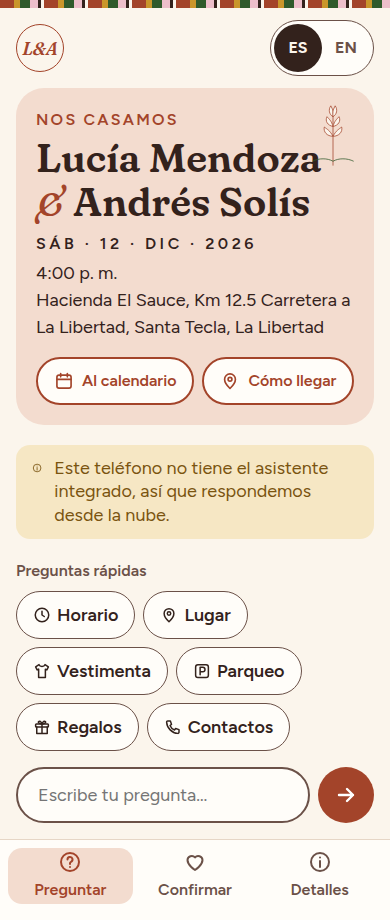
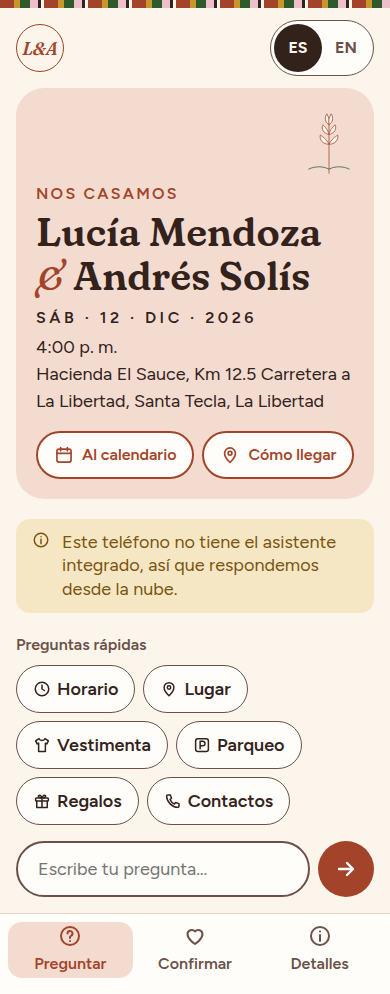
fix: give the calendar event a real end and clear the phone hero
The calendar template used one timestamp for start and end. It now ends five hours later unless the sheet sets an end or a duration, sends America/El_Salvador, and uses Spanish details on the Spanish page. The sprig sits above the names through 430px, and the cloud notice icon matches the banner text.

Changed region(s): [[0.0308, 0.0, 0.9846, 1.0]]

diff --git a/src/features/qa/sheetView.ts b/src/features/qa/sheetView.ts
@@ -44,17 +44,107 @@ export function venueLine(info: WeddingInfo): string {
     .join(', ');
 }
 
-export function calendarUrl(info: WeddingInfo): string {
+/** Length used when the wedding sheet does not set an end time or a duration. */
+export const DEFAULT_CALENDAR_DURATION_HOURS = 5;
+
+const CALENDAR_TIME_ZONE = 'America/El_Salvador';
+
+const ENGLISH_VENUE_DETAILS =
+  'The property is a 25-minute drive from central Santa Tecla. A covered backup hall is available if it rains.';
+
+const SPANISH_VENUE_DETAILS =
+  'La propiedad queda a 25 minutos en carro del centro de Santa Tecla. Hay un salón cubierto de respaldo si llueve.';
+
+type Clock = { hours: number; minutes: number };
+
+function pad2(value: number): string {
+  return String(value).padStart(2, '0');
+}
+
+function calendarStamp(isoDate: string, clock: Clock): string {
+  return `${isoDate.replaceAll('-', '')}T${pad2(clock.hours)}${pad2(clock.minutes)}00`;
+}
+
+function parseClock(value: string): Clock | null {
+  const match = /^(\d{1,2}):(\d{2})$/.exec(value.trim());
+  if (!match) return null;
+  const hours = Number(match[1]);
+  const minutes = Number(match[2]);
+  if (hours > 23 || minutes > 59) return null;
+  return { hours, minutes };
+}
+
+function addMinutes(isoDate: string, clock: Clock, minutesToAdd: number): { date: string; clock: Clock } {
+  const [year, month, day] = isoDate.split('-').map(Number);
+  const utc = new Date(Date.UTC(year, (month ?? 1) - 1, day ?? 1, clock.hours, clock.minutes));
+  utc.setUTCMinutes(utc.getUTCMinutes() + minutesToAdd);
+  return {
+    date: `${utc.getUTCFullYear()}-${pad2(utc.getUTCMonth() + 1)}-${pad2(utc.getUTCDate())}`,
+    clock: { hours: utc.getUTCHours(), minutes: utc.getUTCMinutes() },
+  };
+}
+
+function minutesFromDuration(value: unknown): number | null {
+  if (typeof value === 'number' && Number.isFinite(value) && value > 0) {
+    return Math.round(value * 60);
+  }
+  if (typeof value !== 'string') return null;
+  const trimmed = value.trim();
+  const hours = /^(\d+(?:\.\d+)?)\s*h(?:ours?)?$/i.exec(trimmed);
+  if (hours) return Math.round(Number(hours[1]) * 60);
+  const asNumber = Number(trimmed);
+  if (Number.isFinite(asNumber) && asNumber > 0) return Math.round(asNumber * 60);
+  return null;
+}
+
+function configuredEnd(info: WeddingInfo, startDate: string, start: Clock): { date: string; clock: Clock } {
+  const ceremony = ceremonyItem(info);
+  const sources: object[] = ceremony ? [ceremony, info] : [info];
+  for (const source of sources) {
+    const record = source as Record<string, unknown>;
+    const endValue = record.end ?? record.ends_at ?? record.end_time;
+    if (typeof endValue === 'string') {
+      const dated = /^(\d{4}-\d{2}-\d{2})[T ](\d{1,2}:\d{2})/.exec(endValue.trim());
+      if (dated) {
+        const clock = parseClock(dated[2]);
+        if (clock) return { date: dated[1], clock };
+      }
+      const clock = parseClock(endValue);
+      if (clock) {
+        const later = clock.hours * 60 + clock.minutes > start.hours * 60 + start.minutes;
+        return later ? { date: startDate, clock } : addMinutes(startDate, clock, 24 * 60);
+      }
+    }
+    const duration = minutesFromDuration(record.duration_hours ?? record.durationHours ?? record.duration);
+    if (duration !== null) return addMinutes(startDate, start, duration);
+  }
+  return addMinutes(startDate, start, DEFAULT_CALENDAR_DURATION_HOURS * 60);
+}
+
+function looksSpanish(text: string): boolean {
+  return /[áéíóúüñ¿¡]/i.test(text) || /\b(el|la|los|las|del|hay|para|con|una|ceremonia|boda)\b/i.test(text);
+}
+
+function calendarDetails(info: WeddingInfo, lang: UiLang): string {
+  const notes = (info.venue.notes ?? '').trim();
+  if (lang === 'en') return notes || info.disclaimer.trim();
+  if (notes === ENGLISH_VENUE_DETAILS) return SPANISH_VENUE_DETAILS;
+  if (notes && looksSpanish(notes)) return notes;
+  const place = [info.venue.name, info.venue.city].filter((part) => part.trim().length > 0).join(', ');
+  return place ? `Ceremonia en ${place}.` : 'Ceremonia de la boda.';
+}
+
+export function calendarUrl(info: WeddingInfo, lang: UiLang = 'es'): string {
   const item = ceremonyItem(info);
-  const compactDate = info.date.replaceAll('-', '');
-  const compactTime = (item?.time ?? '16:00').replace(':', '') + '00';
-  const start = `${compactDate}T${compactTime}`;
+  const start = parseClock(item?.time ?? '16:00') ?? { hours: 16, minutes: 0 };
+  const end = configuredEnd(info, info.date, start);
   const params = new URLSearchParams({
     action: 'TEMPLATE',
     text: `${personName(info.couple.bride)} y ${personName(info.couple.groom)}`,
-    dates: `${start}/${start}`,
+    dates: `${calendarStamp(info.date, start)}/${calendarStamp(end.date, end.clock)}`,
+    ctz: info.timezone.trim() || CALENDAR_TIME_ZONE,
     location: venueLine(info),
-    details: info.venue.notes ?? info.disclaimer,
+    details: calendarDetails(info, lang),
   });
   return `https://calendar.google.com/calendar/render?${params.toString()}`;
 }

diff --git a/e2e/smoke.spec.ts b/e2e/smoke.spec.ts
@@ -7,11 +7,49 @@ test.beforeEach(async ({ page }) => {
   await page.emulateMedia({ reducedMotion: 'reduce' });
 });
 
+function boxesOverlap(
+  a: { x: number; y: number; width: number; height: number },
+  b: { x: number; y: number; width: number; height: number },
+): boolean {
+  return a.x < b.x + b.width && a.x + a.width > b.x && a.y < b.y + b.height && a.y + a.height > b.y;
+}
+
 test('guest mobile screenshot', async ({ page }) => {
   await page.setViewportSize({ width: 390, height: 844 });
   await page.goto('/');
-  await expect(page.getByRole('heading', { level: 1 })).toContainText('Lucía Mendoza');
+  const heading = page.getByRole('heading', { level: 1 });
+  await expect(heading).toContainText('Lucía Mendoza');
   await expect(page.getByText('Hacienda El Sauce')).toBeVisible();
+
+  const calendar = new URL((await page.getByRole('link', { name: 'Al calendario' }).getAttribute('href')) ?? '');
+  const [start, end] = (calendar.searchParams.get('dates') ?? '').split('/');
+  expect(start).not.toBe(end);
+  expect(calendar.searchParams.get('ctz')).toBe('America/El_Salvador');
+  expect(calendar.searchParams.get('details') ?? '').toContain('salón');
+
+  await page.getByRole('button', { name: 'EN', exact: true }).click();
+  const englishLink = page.getByRole('link', { name: 'Add to calendar' });
+  await expect(englishLink).toHaveAttribute('href', /25-minute/);
+  await expect(englishLink).toHaveAttribute('href', /ctz=/);
+  await page.getByRole('button', { name: 'ES', exact: true }).click();
+  await expect(page.getByRole('link', { name: 'Al calendario' })).toHaveAttribute('href', /sal%C3%B3n/);
+
+  const icon = page.locator('.banner-info svg');
+  await expect(icon).toHaveAttribute('aria-hidden', 'true');
+  const iconBox = await icon.boundingBox();
+  expect(iconBox?.width ?? 0).toBeGreaterThanOrEqual(17);
+  expect(iconBox?.height ?? 0).toBeGreaterThanOrEqual(17);
+
+  for (const width of [360, 390, 430]) {
+    await page.setViewportSize({ width, height: 844 });
+    const name = await heading.boundingBox();
+    const sprig = await page.locator('.g-hero-art svg').boundingBox();
+    expect(name).toBeTruthy();
+    expect(sprig).toBeTruthy();
+    if (name && sprig) expect(boxesOverlap(name, sprig)).toBe(false);
+  }
+
+  await page.setViewportSize({ width: 390, height: 844 });
   await page.screenshot({ path: 'docs/screenshots/guest-mobile.png', fullPage: true });
 });
 

diff --git a/src/features/qa/sheetView.test.ts b/src/features/qa/sheetView.test.ts
@@ -1,9 +1,11 @@
 import { describe, expect, it } from 'vitest';
+import pack from '../../../data/wedding_info.json';
 import sample from '../../data/wedding_info.sample.json';
 import type { WeddingInfo } from '../../data/types';
-import { dateLine, partnerInitials, personName, venueLine } from './sheetView';
+import { calendarUrl, dateLine, DEFAULT_CALENDAR_DURATION_HOURS, partnerInitials, personName, venueLine } from './sheetView';
 
 const info = sample as WeddingInfo;
+const sheet = pack as WeddingInfo;
 
 describe('sheet view', () => {
   it('reads the couple and the venue from the wedding sheet', () => {
@@ -14,5 +16,31 @@ describe('sheet view', () => {
     expect(venueLine(info)).not.toContain('Hacienda');
     expect(dateLine(info.date, 'es')).toContain('2026');
     expect(dateLine(info.date, 'es')).toContain('12');
+  });
+
+  it('builds a calendar link with a real end, timezone, and Spanish details', () => {
+    const url = new URL(calendarUrl(sheet, 'es'));
+    const [start, end] = (url.searchParams.get('dates') ?? '').split('/');
+    expect(start).toBe('20261212T160000');
+    expect(end).not.toBe(start);
+    expect(end).toBe(`20261212T${String(16 + DEFAULT_CALENDAR_DURATION_HOURS).padStart(2, '0')}0000`);
+    expect(url.searchParams.get('ctz')).toBe('America/El_Salvador');
+    expect(url.searchParams.get('details')).toBe(
+      'La propiedad queda a 25 minutos en carro del centro de Santa Tecla. Hay un salón cubierto de respaldo si llueve.',
+    );
+
+    const english = new URL(calendarUrl(sheet, 'en'));
+    expect(english.searchParams.get('details')).toBe(sheet.venue.notes);
+  });
+
+  it('uses an event end or duration when the sheet includes one', () => {
+    const withEnd = calendarUrl({ ...info, end: '18:30' } as WeddingInfo, 'es');
+    expect(new URL(withEnd).searchParams.get('dates')).toBe('20260912T160000/20260912T183000');
+
+    const withDuration = calendarUrl({ ...info, duration_hours: 2 } as WeddingInfo, 'es');
+    expect(new URL(withDuration).searchParams.get('dates')).toBe('20260912T160000/20260912T180000');
+
+    const details = new URL(calendarUrl(info, 'es')).searchParams.get('details') ?? '';
+    expect(details).toContain('Ceremonia al aire libre');
   });
 });

diff --git a/src/pages/GuestPage.tsx b/src/pages/GuestPage.tsx
@@ -281,7 +281,7 @@ export function GuestPage({ requestAnswer = ask }: GuestPageProps) {
             {venueLine(sheet)}
           </p>
           <div className="row gap-2 g-hero-actions">
-            <a className="btn btn-secondary" href={calendarUrl(sheet)} target="_blank" rel="noreferrer">
+            <a className="btn btn-secondary" href={calendarUrl(sheet, lang)} target="_blank" rel="noreferrer">
               <Icon name="cal" />
               {copy.calendar}
             </a>
@@ -303,7 +303,7 @@ export function GuestPage({ requestAnswer = ask }: GuestPageProps) {
         ) : null}
         {showCloudBanner ? (
           <div className="banner banner-info" role="status">
-            <Icon name="info" size={22} />
+            <Icon name="info" size={18} />
             <div>{copy.cloudBanner}</div>
           </div>
         ) : null}

diff --git a/src/styles/components.css b/src/styles/components.css
@@ -106,8 +106,10 @@ textarea.input{padding:var(--space-4);line-height:var(--leading-normal)}
 
 /* Banner */
 .banner{display:flex;gap:var(--space-3);align-items:flex-start;padding:var(--space-3) var(--space-4);border-radius:var(--radius-md);font-size:var(--text-base);line-height:var(--leading-snug)}
+.banner svg{flex:none}
 .banner-offline{background:var(--color-offline-bg);color:var(--color-offline-fg)}
 .banner-info{background:var(--color-warning-bg);color:var(--color-warning-fg)}
+.banner-info svg{width:1em;height:1em;min-width:1em;min-height:1em}
 
 /* Tables (desktop) */
 .table{width:100%;border-collapse:separate;border-spacing:0}

diff --git a/src/styles/guest.css b/src/styles/guest.css
@@ -22,6 +22,16 @@
   top: var(--space-3);
 }
 
+/* On a phone the absolute sprig covers the end of the name. Keep it above the heading. */
+@media (max-width: 430px) {
+  .g-hero-art {
+    position: static;
+    display: flex;
+    justify-content: flex-end;
+    margin-bottom: var(--space-2);
+  }
+}
+
 .g-names {
   font-size: 2.5rem;
   margin: var(--space-1) 0 var(--space-2);
